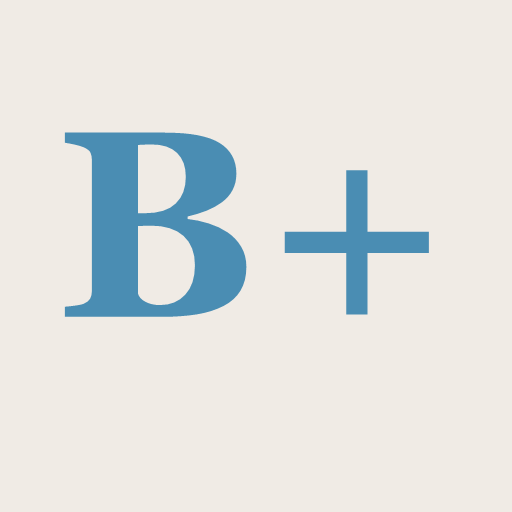
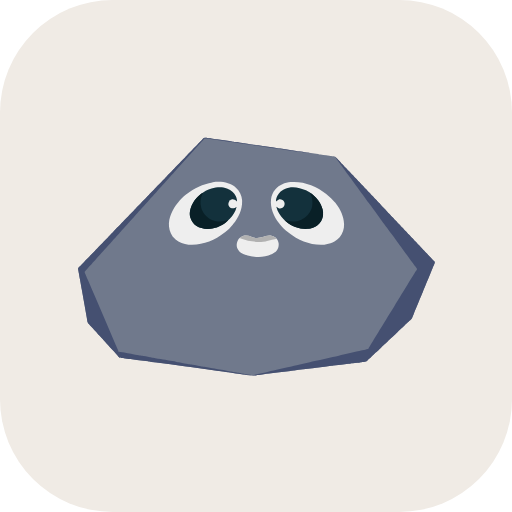
feat(pwa): Rockie se instala como app — ícono de Rockie, sin conexión y pantalla de carga
- Íconos: el «B+» se cambia por Rockie (sus piezas reales: cuarzo + ojos1 + boca6) en 192, 512, maskable y
  apple-touch. Se regeneran con `node capacitor/iconos.mjs` (Chromium de Playwright).
- public/sw.js: solo da /offline.html cuando no hay red al abrir una página (y el ícono que usa). NO guarda la
  app ni datos de personas: cada despliegue se ve al instante y la recarga tras un despliegue
  (vite:preloadError en src/os/arranque.ts) queda igual. No toca /mcp, /oauth/register|token ni /.well-known.
- public/offline.html: «Sin conexión» con tema claro/oscuro; se recarga sola al volver la señal.
- Manifest: id, lang, categorías y atajos (Hoy, Hábitos, Agenda, Cuaderno).
- vite.config.ts (solo PWA, aviso): plugin rockie-pwa, solo en el build (dev y e2e no cambian). Registra el
  service worker desde la ventana principal y, abierta como app instalada (display-mode: standalone), muestra
  a Rockie mientras baja el JavaScript; no sale dentro de las ventanas del escritorio.

diff --git a/public/sw.js b/public/sw.js
@@ -1,0 +1,59 @@
+// Service worker de Rockie (PWA). Hace UNA sola cosa: si al abrir una página no hay red, muestra /offline.html.
+//
+// A propósito NO guarda la app (HTML, /assets) ni nada de las personas:
+// - cada despliegue se ve al instante, y la recarga tras un despliegue (vite:preloadError en src/os/arranque.ts)
+//   sigue igual: una pantalla vieja que ya no existe da 404 desde la red y la página se recarga con lo nuevo;
+// - lo de cada persona va cifrado por el Cofre y no tiene por qué quedar copiado en el teléfono.
+// Los /assets ya tienen su propio caché del navegador (immutable, vercel.json).
+//
+// Si cambias offline.html o PRECARGA, sube VERSION para que los teléfonos bajen lo nuevo.
+const VERSION = 'rockie-sw-1'
+const PRECARGA = ['/offline.html', '/icon-192.png']
+// lo que no es de la app (conector de Claude, OAuth): el navegador va directo, sin pasar por aquí
+const NO_TOCAR = /^\/(mcp|oauth\/(register|token)|\.well-known\/)/
+
+self.addEventListener('install', (e) => {
+  e.waitUntil(
+    caches
+      .open(VERSION)
+      .then((c) => c.addAll(PRECARGA))
+      .then(() => self.skipWaiting()),
+  )
+})
+
+self.addEventListener('activate', (e) => {
+  e.waitUntil(
+    (async () => {
+      for (const k of await caches.keys()) if (k !== VERSION) await caches.delete(k)
+      // la página se pide a la red mientras arranca el service worker (no suma espera al abrir)
+      if (self.registration.navigationPreload) await self.registration.navigationPreload.enable()
+      await self.clients.claim()
+    })(),
+  )
+})
+
+self.addEventListener('fetch', (e) => {
+  const req = e.request
+  if (req.method !== 'GET') return
+  const url = new URL(req.url)
+  if (url.origin !== self.location.origin || NO_TOCAR.test(url.pathname)) return
+  // lo que usa offline.html (el ícono): de la red y, sin red, de lo guardado
+  if (req.mode !== 'navigate') {
+    if (PRECARGA.includes(url.pathname) && url.pathname !== '/offline.html') {
+      e.respondWith(fetch(req).catch(() => caches.match(url.pathname, { cacheName: VERSION }).then((r) => r ?? Response.error())))
+    }
+    return
+  }
+  e.respondWith(
+    (async () => {
+      try {
+        const pre = await e.preloadResponse
+        if (pre) return pre
+        return await fetch(req)
+      } catch {
+        // sin red: la página de «sin conexión» (cualquier respuesta del servidor, incluso un error, pasa tal cual)
+        return (await caches.match('/offline.html', { cacheName: VERSION })) ?? Response.error()
+      }
+    })(),
+  )
+})

diff --git a/public/offline.html b/public/offline.html
@@ -1,0 +1,49 @@
+<!doctype html>
+<html lang="es-PE">
+  <head>
+    <meta charset="utf-8" />
+    <meta name="viewport" content="width=device-width, initial-scale=1, viewport-fit=cover" />
+    <title>Sin conexión · Rockie</title>
+    <meta name="theme-color" content="#f0ebe5" />
+    <script>
+      // mismo tema que la app (src: index.html)
+      try {
+        var t = localStorage.getItem('hq.theme');
+        if (!t) t = matchMedia('(prefers-color-scheme: dark)').matches ? 'dark' : 'light';
+        document.documentElement.dataset.theme = t;
+      } catch (e) {}
+    </script>
+    <style>
+      :root { --bg: #f0ebe5; --ink: #575279; --ink-soft: #797593; --brand: #2a82ad; --brand-edge: #216b87; --on: #fdfbf7; color-scheme: light; }
+      :root[data-theme='dark'] { --bg: #232136; --ink: #e0def4; --ink-soft: #b5b1cf; --brand: #3a95b8; --brand-edge: #216b87; color-scheme: dark; }
+      * { box-sizing: border-box; }
+      html, body { margin: 0; min-height: 100dvh; background: var(--bg); color: var(--ink); }
+      body {
+        display: grid; place-items: center; padding: 24px 20px calc(24px + env(safe-area-inset-bottom));
+        font-family: 'Quicksand', system-ui, -apple-system, 'Segoe UI', Roboto, sans-serif; text-align: center;
+      }
+      main { max-width: 320px; display: grid; justify-items: center; gap: 16px; }
+      img { width: 120px; height: 120px; border-radius: 28px; animation: respira 3.2s ease-in-out infinite; }
+      h1 { margin: 8px 0 0; font: 700 24px/1.2 'Fraunces', Georgia, serif; }
+      p { margin: 0; font-size: 16px; line-height: 1.5; color: var(--ink-soft); }
+      button {
+        margin-top: 8px; min-height: 48px; padding: 0 28px; border: 0; border-radius: 16px; cursor: pointer;
+        font: 700 16px/1 inherit; font-family: inherit; color: var(--on); background: var(--brand);
+        box-shadow: 0 4px 0 var(--brand-edge); transition: transform 0.12s, box-shadow 0.12s;
+      }
+      button:active { transform: translateY(4px); box-shadow: 0 0 0 var(--brand-edge); }
+      @keyframes respira { 50% { transform: scale(1.04); } }
+    </style>
+  </head>
+  <body>
+    <main>
+      <img src="/icon-192.png" alt="" />
+      <h1>Sin conexión</h1>
+      <p>Rockie necesita internet para abrir. Cuando vuelva la señal, se abre solo.</p>
+      <button type="button" onclick="location.reload()">Reintentar</button>
+    </main>
+    <script>
+      addEventListener('online', function () { location.reload(); });
+    </script>
+  </body>
+</html>

diff --git a/vite.config.ts b/vite.config.ts
@@ -27,8 +27,44 @@ function habitosPage(): Plugin {
   }
 }
 
+// PWA: solo en el build (no en dev ni en los e2e, que corren con dev) cada página registra /sw.js (public/sw.js:
+// sin red → public/offline.html) y, abierta como app instalada, muestra a Rockie mientras baja el JavaScript
+// (React lo reemplaza al dibujar; aparece con un pequeño retraso para que una carga rápida no parpadee).
+// Dentro de las ventanas del escritorio (iframes) no hay pantalla de carga: el escritorio ya tiene la suya.
+const PWA_CARGA =
+  '<div class="pwa-carga" aria-busy="true" aria-label="Cargando"><img src="/icon-192.png" alt="" width="96" height="96" /></div>'
+function pwa(): Plugin {
+  return {
+    name: 'rockie-pwa',
+    apply: 'build',
+    transformIndexHtml(html) {
+      return {
+        html: html.replace('<div id="root"></div>', `<div id="root">${PWA_CARGA}</div>`),
+        tags: [
+          {
+            tag: 'style',
+            injectTo: 'head',
+            children:
+              '.pwa-carga{display:none;min-height:100dvh;place-items:center}' +
+              '.pwa-carga img{border-radius:24px;animation:pwa-respira 3.2s ease-in-out infinite}' +
+              '@media (display-mode: standalone){html:not([data-pwa-ventana]) .pwa-carga{display:grid;animation:pwa-entra .3s .2s both}}' +
+              '@keyframes pwa-entra{from{opacity:0}}@keyframes pwa-respira{50%{transform:scale(1.04)}}',
+          },
+          {
+            tag: 'script',
+            injectTo: 'head',
+            children:
+              "try{if(self!==top)document.documentElement.setAttribute('data-pwa-ventana','')}catch(e){}" +
+              "if('serviceWorker' in navigator&&self===top)addEventListener('load',function(){navigator.serviceWorker.register('/sw.js').catch(function(){})})",
+          },
+        ],
+      }
+    },
+  }
+}
+
 export default defineConfig({
-  plugins: [react(), habitosPage()],
+  plugins: [react(), habitosPage(), pwa()],
   // versión del build: el caché de datos guardado en el navegador no sobrevive a un despliegue nuevo
   define: { __BUILD_ID__: JSON.stringify(process.env.VERCEL_GIT_COMMIT_SHA?.slice(0, 10) ?? String(Date.now())) },
   build: {
